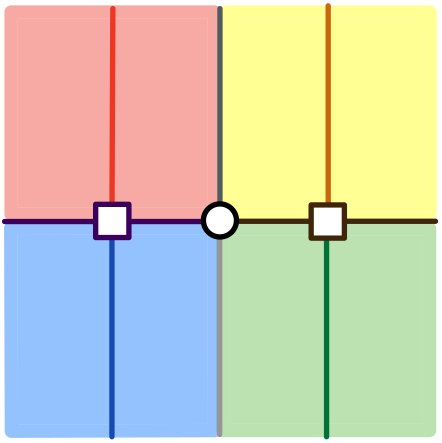
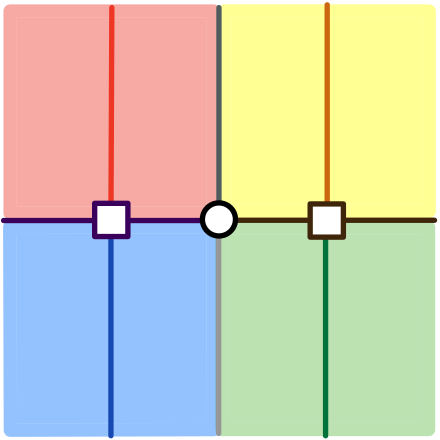
fixing image sizes

Changed region(s): [[0.0, 0.0, 1.0, 1.0], [0.4727, 0.4432, 0.5318, 0.4727]]

diff --git a/_site/index.html b/_site/index.html
@@ -19,20 +19,20 @@
 
       <br><br><br><br><br><br>
 
-      <a href="Logic/Logic 2.pdf"><img src="images/enrichment.png" style="max-width:100%;"></a>
+      <!-- <a href="Logic/Logic 2.pdf"><img src="images/binary-logic.png" style="max-width:100%;"></a> -->
 
-      <!-- <table style="width:100%; text-align: center"> -->
-      <!--   <tr> -->
-      <!--     <td><a href="Logic/Logic 1.pdf"><img src="images/binary-logic.png" style="max-width:100%;"></a></td> -->
-      <!--     <td><a href="Logic/Logic 2.pdf"><img src="images/enrichment.png" style="max-width:100%;"></a></td> -->
-      <!--     <td><a href="Logic/Logic 3.pdf"><img src="images/cosmic.png" style="max-width:100%;"></a></td> -->
-      <!--   </tr> -->
-      <!--   <tr> -->
-      <!--     <td><a href="Logic/Logic 1.pdf"><b>Binary Logic</b></a></td> -->
-      <!--     <td><a href="Logic/Logic 2.pdf"><b>Enrichment</b></a></td> -->
-      <!--     <td><a href="Logic/Logic 3.pdf"><b>Cosmic Logic</b></a></td> -->
-      <!--   </tr> -->
-      <!-- </table> -->
+      <table style="width:100%; text-align: center">
+        <tr>
+          <td style="width:25%;"><a href="Logic/Logic 1.pdf"><img src="images/binary-logic.png" style="width:100%; height:auto;"></a></td>
+          <td style="width:25%;"><a href="Logic/Logic 3.pdf"><img src="images/cosmic-logic.png" style="width:100%; height:auto;"></a></td>
+          <td style="width:25%;"><a href="Logic/Logic 2.pdf"><img src="images/enr.png" style="width:100%; height:auto;"></a></td>
+        </tr>
+        <tr>
+          <td style="width:25%;"><a href="Logic/Logic 1.pdf"><b>Binary Logic</b></a></td>
+          <td style="width:25%;"><a href="Logic/Logic 2.pdf"><b>Enrichment</b></a></td>
+          <td style="width:25%;"><a href="Logic/Logic 3.pdf"><b>Cosmic Logic</b></a></td>
+        </tr>
+      </table>
 
 
 

diff --git a/index.html b/index.html
@@ -19,20 +19,20 @@
 
       <br><br><br><br><br><br>
 
-      <a href="Logic/Logic 2.pdf"><img src="images/enrichment.png" style="max-width:100%;"></a>
+      <!-- <a href="Logic/Logic 2.pdf"><img src="images/binary-logic.png" style="max-width:100%;"></a> -->
 
-      <!-- <table style="width:100%; text-align: center"> -->
-      <!--   <tr> -->
-      <!--     <td><a href="Logic/Logic 1.pdf"><img src="images/binary-logic.png" style="max-width:100%;"></a></td> -->
-      <!--     <td><a href="Logic/Logic 2.pdf"><img src="images/enrichment.png" style="max-width:100%;"></a></td> -->
-      <!--     <td><a href="Logic/Logic 3.pdf"><img src="images/cosmic.png" style="max-width:100%;"></a></td> -->
-      <!--   </tr> -->
-      <!--   <tr> -->
-      <!--     <td><a href="Logic/Logic 1.pdf"><b>Binary Logic</b></a></td> -->
-      <!--     <td><a href="Logic/Logic 2.pdf"><b>Enrichment</b></a></td> -->
-      <!--     <td><a href="Logic/Logic 3.pdf"><b>Cosmic Logic</b></a></td> -->
-      <!--   </tr> -->
-      <!-- </table> -->
+      <table style="width:100%; text-align: center">
+        <tr>
+          <td style="width:25%;"><a href="Logic/Logic 1.pdf"><img src="images/binary-logic.png" style="width:100%; height:auto;"></a></td>
+          <td style="width:25%;"><a href="Logic/Logic 3.pdf"><img src="images/cosmic-logic.png" style="width:100%; height:auto;"></a></td>
+          <td style="width:25%;"><a href="Logic/Logic 2.pdf"><img src="images/enr.png" style="width:100%; height:auto;"></a></td>
+        </tr>
+        <tr>
+          <td style="width:25%;"><a href="Logic/Logic 1.pdf"><b>Binary Logic</b></a></td>
+          <td style="width:25%;"><a href="Logic/Logic 2.pdf"><b>Enrichment</b></a></td>
+          <td style="width:25%;"><a href="Logic/Logic 3.pdf"><b>Cosmic Logic</b></a></td>
+        </tr>
+      </table>
 
 
 
